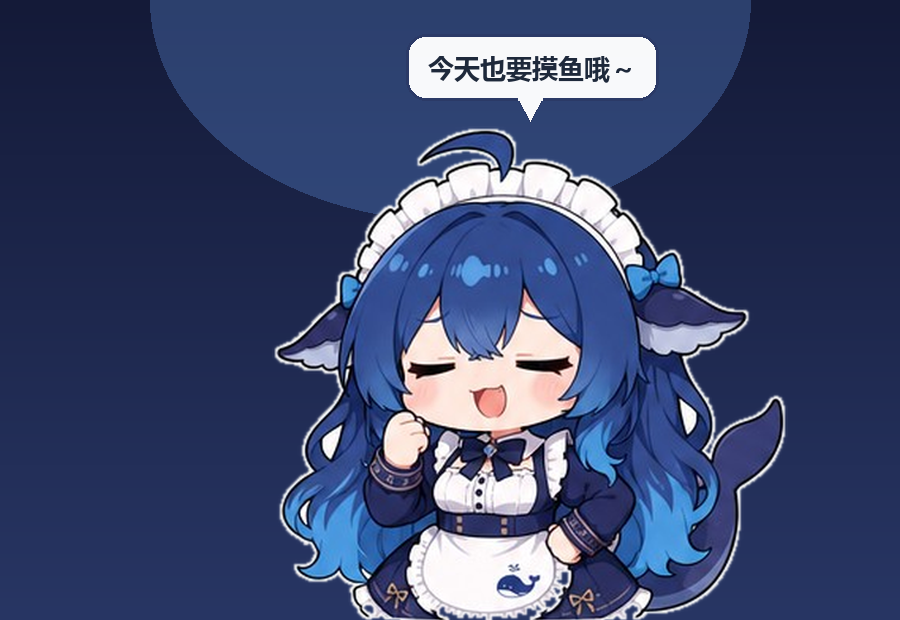
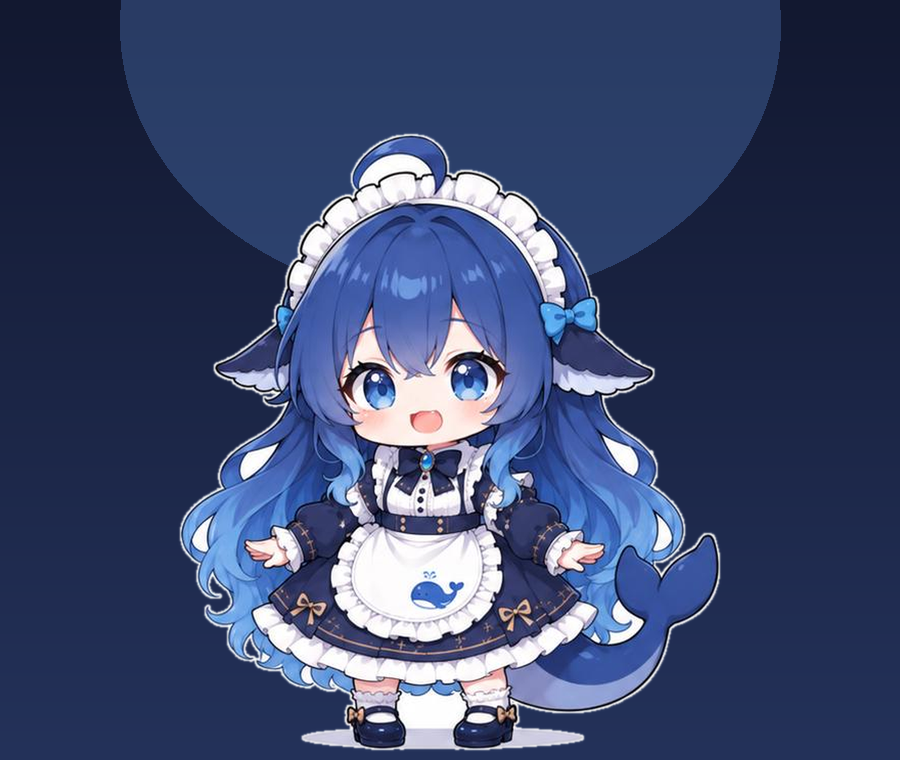
feat(desktop): 换成官方设定图的正面全身造型
- 新增 assets/source/character_sheet.jpg（三视图设定）
- build_body.py 裁出正面全身、去白底、生成 assets/full/body.png
- pet.py 本体改用全身站姿，姿势变体（歪头/蹦跳/害羞）运行时生成
- 24 张半身表情保留在 assets/sprites，暂未启用

diff --git a/dafeiyu-pet/pet.py b/dafeiyu-pet/pet.py
@@ -21,6 +21,7 @@ from PIL import Image, ImageDraw, ImageFont
 
 HERE = os.path.dirname(os.path.abspath(__file__))
 SPRITE_DIR = os.path.join(HERE, "assets", "sprites")
+FULL_DIR = os.path.join(HERE, "assets", "full")
 CONFIG_DIR = os.path.join(os.environ.get("APPDATA", HERE), "dafeiyu-pet")
 CONFIG_PATH = os.path.join(CONFIG_DIR, "config.json")
 
@@ -269,10 +270,56 @@ def load_sprites():
     return sprites
 
 
+# ---- 全身站姿（来自角色设定图）与它的姿势变体 ----
+BODY_POSES = {
+    "body_idle": (0.0, 1.0, 0.0),
+    "body_happy": (-3.0, 1.02, -6.0),
+    "body_shy": (3.0, 0.99, 4.0),
+    "body_hop": (0.0, 1.0, -14.0),
+    "body_lean": (-6.0, 1.0, 0.0),
+}
+
+BODY_ALIAS = {
+    "deyi": "body_happy", "ok": "body_happy", "piaole": "body_happy",
+    "bixin": "body_happy", "maozhua": "body_happy", "zaoshanghao": "body_happy",
+    "ganfan": "body_happy", "huachi": "body_happy",
+    "haixiu": "body_shy", "toukan": "body_shy", "shuijiao": "body_shy",
+    "tangping": "body_shy", "yun": "body_shy", "qiurao": "body_shy",
+    "yaoqian": "body_shy",
+    "xia": "body_hop", "zhenjing": "body_hop", "shengqi": "body_hop",
+    "jiazai": "body_lean", "wenhao": "body_lean", "wuyu": "body_lean",
+    "buyao": "body_lean", "xianqi": "body_lean", "jiaban": "body_lean",
+}
+
+
+def _body_variant(base, angle=0.0, scale=1.0, dy=0.0):
+    w, h = base.size
+    img = base
+    if scale != 1.0:
+        img = img.resize((int(w * scale), int(h * scale)), Image.LANCZOS)
+    if angle != 0.0:
+        img = img.rotate(angle, resample=Image.BICUBIC, expand=False)
+    canvas = Image.new("RGBA", (w, h + 60), (0, 0, 0, 0))
+    canvas.alpha_composite(
+        img, (max(0, (w - img.width) // 2), 30 + int(dy) + (h - img.height)))
+    return canvas
+
+
+def load_body_sprites():
+    path = os.path.join(FULL_DIR, "body.png")
+    if not os.path.exists(path):
+        return {}
+    base = Image.open(path).convert("RGBA")
+    return {name: _body_variant(base, a, s, d) for name, (a, s, d) in BODY_POSES.items()}
+
+
 class Pet:
     def __init__(self):
         self.cfg = self._load_cfg()
-        self.sprites_raw = load_sprites()
+        self.heads_raw = load_sprites()            # 24 张半身表情（留作备用素材）
+        self.sprites_raw = load_body_sprites()     # 设定图切出来的全身站姿
+        if not self.sprites_raw:
+            self.sprites_raw = self.heads_raw
         self.screen_w = user32.GetSystemMetrics(0)
         self.screen_h = user32.GetSystemMetrics(1)
         # 任务栏之上的可用区域，让桌宠站在任务栏上面而不是被它盖住
@@ -290,7 +337,7 @@ class Pet:
         self.CANVAS_W = int(max_w + 56)
         self.CANVAS_H = int(max_h + 320)
 
-        self.expr = "deyi"
+        self.expr = "body_idle" if "body_idle" in self.sprites else "deyi"
         self.bubble_text = ""
         self.bubble_until = 0.0
         self.dragging = False
@@ -314,8 +361,8 @@ class Pet:
 
     # ---------------- 基础工具 ----------------
     def _default_scale(self):
-        target = max(220, min(360, int(self.screen_h * 0.40)))
-        raw_h = self.sprites_raw["deyi"].height
+        target = max(220, min(400, int(self.screen_h * 0.38)))
+        raw_h = max(img.height for img in self.sprites_raw.values())
         return round(target / raw_h, 3)
 
     def _fit(self, img):
@@ -484,6 +531,8 @@ class Pet:
         self.y = int(max(-60, min(self.y, self.work_bottom - 120)))
 
     def _set_expr(self, name, seconds):
+        if name not in self.sprites:
+            name = BODY_ALIAS.get(name, "body_idle")
         if name in self.sprites:
             self.expr = name
             self.expr_until = time.time() + seconds
@@ -658,7 +707,7 @@ class Pet:
 
     def _tick(self, now):
         if self.expr_until and now > self.expr_until:
-            self.expr = "deyi"
+            self.expr = "body_idle" if "body_idle" in self.sprites else "deyi"
             self.expr_until = 0
 
         # 走动

diff --git a/dafeiyu-pet/build_body.py b/dafeiyu-pet/build_body.py
@@ -1,0 +1,76 @@
+# -*- coding: utf-8 -*-
+"""从角色设定图里切出正面全身，做成桌宠本体。
+
+来源：assets/source/character_sheet.jpg（三视图 + 细节）
+输出：assets/full/body.png（透明、760 高）
+"""
+import os
+
+import numpy as np
+from PIL import Image, ImageDraw, ImageFilter
+
+HERE = os.path.dirname(os.path.abspath(__file__))
+SHEET = os.path.join(HERE, "assets", "source", "character_sheet.jpg")
+OUT = os.path.join(HERE, "assets", "full")
+# 正面视图在左上角，稍微收一点避开右边的侧视图
+CROP = (6, 4, 542, 636)
+HEIGHT = 760
+
+
+def cutout(img):
+    work = img.convert("RGB").copy()
+    marker = (1, 2, 3)
+    w, h = work.size
+    seeds = [(x, 0) for x in range(0, w, 2)] + [(x, h - 1) for x in range(0, w, 2)]
+    seeds += [(0, y) for y in range(0, h, 2)] + [(w - 1, y) for y in range(0, h, 2)]
+    for s in seeds:
+        if work.getpixel(s) == marker:
+            continue
+        ImageDraw.floodfill(work, s, marker, thresh=40)
+
+    a = np.array(work)
+    mask = ~np.all(a == np.array(marker), axis=2)
+
+    # 只保留最大连通块，顺手丢掉右边的侧视图碎片和脚下阴影
+    from collections import deque
+    seen = np.zeros((h, w), bool)
+    best = []
+    for y in range(h):
+        for x in range(w):
+            if seen[y, x] or not mask[y, x]:
+                continue
+            q = deque([(x, y)])
+            seen[y, x] = True
+            comp = []
+            while q:
+                cx, cy = q.popleft()
+                comp.append((cx, cy))
+                for nx, ny in ((cx + 1, cy), (cx - 1, cy), (cx, cy + 1), (cx, cy - 1)):
+                    if 0 <= nx < w and 0 <= ny < h and not seen[ny, nx] and mask[ny, nx]:
+                        seen[ny, nx] = True
+                        q.append((nx, ny))
+            if len(comp) > len(best):
+                best = comp
+
+    m = Image.new("L", (w, h), 0)
+    px = m.load()
+    for x, y in best:
+        px[x, y] = 255
+    return m.filter(ImageFilter.MaxFilter(3)).filter(ImageFilter.GaussianBlur(0.8))
+
+
+def main():
+    os.makedirs(OUT, exist_ok=True)
+    sheet = Image.open(SHEET).convert("RGB")
+    front = sheet.crop(CROP)
+    full = front.convert("RGBA")
+    full.putalpha(cutout(front))
+    full = full.crop(full.getchannel("A").getbbox())
+    w, h = full.size
+    full = full.resize((int(w * HEIGHT / h), HEIGHT), Image.LANCZOS)
+    full.save(os.path.join(OUT, "body.png"))
+    print("body.png", full.size)
+
+
+if __name__ == "__main__":
+    main()

diff --git a/dafeiyu-pet/README.md b/dafeiyu-pet/README.md
@@ -2,6 +2,9 @@
 
 把「大肥鱼」放到你的 Windows 桌面上当桌宠：真·透明背景、始终置顶、能拖能戳会说话。
 
+**造型**：本体取自官方角色设定图的**正面全身站姿**（有裙摆、白丝、小皮鞋，会呼吸、会小跳、会歪头）。
+设定图原文件在 `assets/source/character_sheet.jpg`。
+
 ![预览](assets/preview.png)
 
 ## 快速开始
@@ -33,11 +36,13 @@
 
 ## 自定义
 
-- **加表情**：把新的白底立绘丢进表情包图库，或直接放到 `assets/raw/`，然后运行
+- **换本体**：把新的设定图放到 `assets/source/character_sheet.jpg`（正面视图在左上），跑
   ```
-  python build_assets.py
+  python build_body.py
   ```
-  会自动抠背景、裁边、生成 `assets/sprites/*.png`。
+  会裁出正面全身、去白底、生成 `assets/full/body.png`。裁剪范围在脚本里的 `CROP` 调。
+  歪头/蹦跳/害羞这几个姿势是运行时旋转缩放生成的，改 `pet.py` 的 `BODY_POSES`。
+- **24 张半身表情**：还在 `assets/sprites/` 里，暂时没用上，以后想加「说话时冒出表情」可以直接接。
 - **改台词**：打开 `pet.py`，改 `LINES_IDLE` / `LINES_CLICK` / `LINES_DRAG` / `LINES_GREET` 就行。
 - **改大小**：右键菜单「大小」，或编辑 `%APPDATA%\dafeiyu-pet\config.json` 里的 `scale`。
 - **换 Python**：快捷方式指向 `install.ps1` 里 `$cands` 的第一个存在的 pythonw。
